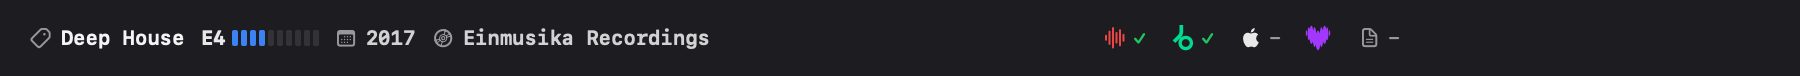
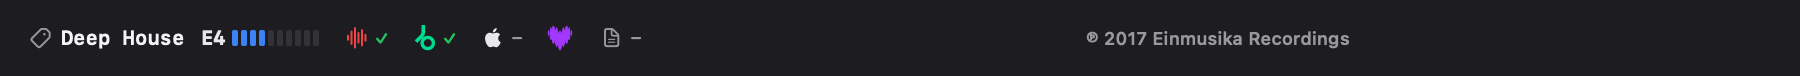
fix: no false "agent offline" on first open; ℗ year + label at the right
- The agent's analysis held the Python GIL, so polls timed out while a new
  track was analysed and the client reported "offline" (Retry then worked
  from cache). Client: a timeout or dropped connection now means "busy,
  keep waiting"; only a refused connection is "offline"; an "unknown" path
  (lost POST) is posted again. (The dj-stack agent now analyses in a
  separate process and answers /health in ~1 ms during analysis.)
- Footer: year and label move to the right end as a release credit,
  "℗ 2017 Einmusika Recordings", quieter than the genre.

Changed region(s): [[0.1867, 0.3684, 0.4044, 0.6579], [0.5911, 0.3421, 0.7778, 0.6579]]

diff --git a/Mocawave/TrackInfo.swift b/Mocawave/TrackInfo.swift
@@ -115,25 +115,31 @@ actor TrackInfoClient {
     init(base: URL = URL(string: "http://127.0.0.1:47321")!) {
         self.base = base
         let config = URLSessionConfiguration.ephemeral
-        config.timeoutIntervalForRequest = 5
+        config.timeoutIntervalForRequest = 10
         config.waitsForConnectivity = false
         session = URLSession(configuration: config)
     }
 
     /// Asks for `url`'s info, reporting progress, until ready / offline / failed (or the task is cancelled).
+    /// "Busy" (a timeout while the agent analyses) and "not registered yet" (the agent doesn't know the path,
+    /// e.g. the POST was lost) both mean: keep going. Only a refused connection is "offline".
+    private static let notRegistered = -1
+
     func fetch(_ url: URL, progress: @Sendable @escaping (TrackInfoState) async -> Void) async -> TrackInfoState {
-        var request = URLRequest(url: base.appendingPathComponent("track/info"))
-        request.httpMethod = "POST"
-        request.setValue("application/json", forHTTPHeaderField: "Content-Type")
-        request.httpBody = try? JSONSerialization.data(withJSONObject: ["path": url.path])
-        var state = await send(request)
-        let deadline = Date().addingTimeInterval(180)
-        while case .queued = state, !Task.isCancelled, Date() < deadline {
-            await progress(state)
+        var post = URLRequest(url: base.appendingPathComponent("track/info"))
+        post.httpMethod = "POST"
+        post.setValue("application/json", forHTTPHeaderField: "Content-Type")
+        post.httpBody = try? JSONSerialization.data(withJSONObject: ["path": url.path])
+        var components = URLComponents(url: base.appendingPathComponent("track/info"), resolvingAgainstBaseURL: false)!
+        components.queryItems = [URLQueryItem(name: "path", value: url.path)]
+        let poll = URLRequest(url: components.url!)
+
+        var state = await send(post)
+        let deadline = Date().addingTimeInterval(240)
+        while case .queued(let position) = state, !Task.isCancelled, Date() < deadline {
+            await progress(.queued(position: max(position, 0)))
             try? await Task.sleep(nanoseconds: 1_500_000_000)
-            var components = URLComponents(url: base.appendingPathComponent("track/info"), resolvingAgainstBaseURL: false)!
-            components.queryItems = [URLQueryItem(name: "path", value: url.path)]
-            state = await send(URLRequest(url: components.url!))
+            state = await send(position == Self.notRegistered ? post : poll)
         }
         if case .queued = state { return .failed("timed out") }
         return state
@@ -154,8 +160,10 @@ actor TrackInfoClient {
             return decode(data)
         } catch let error as URLError where error.code == .networkConnectionLost && !retried {
             return await send(request, retried: true)
-        } catch let error as URLError where [.cannotConnectToHost, .networkConnectionLost, .timedOut, .cannotFindHost].contains(error.code) {
-            return .offline
+        } catch let error as URLError where [.cannotConnectToHost, .cannotFindHost].contains(error.code) {
+            return .offline                      // nothing listening: the agent isn't running
+        } catch let error as URLError where [.timedOut, .networkConnectionLost].contains(error.code) {
+            return .queued(position: 0)          // agent up but busy: keep waiting
         } catch {
             return .failed(error.localizedDescription)
         }
@@ -168,6 +176,7 @@ actor TrackInfoClient {
         switch envelope.status {
         case "ready": return envelope.info.map { .ready($0) } ?? .failed("empty response")
         case "queued", "running": return .queued(position: envelope.position ?? 1)
+        case "unknown": return .queued(position: Self.notRegistered)   // not registered yet: post again
         default: return .failed(envelope.error ?? envelope.status)
         }
     }

diff --git a/Mocawave/TrackInfoView.swift b/Mocawave/TrackInfoView.swift
@@ -38,9 +38,6 @@ struct TrackInfoFooter: View {
         if let energy = info.labels.energy, case .number(let e) = energy.value {
             EnergyMeter(level: Int(e)).help("energy \(Int(e))/10 · \(energy.source)")
         }
-        if let year = info.labels.year { item("calendar", year.value.description, help: "year · \(year.source)") }
-        if let label = info.labels.label { item("opticaldisc", label.value.description, help: "label · \(label.source)") }
-        Spacer(minLength: MocaSpace.s)
         HStack(spacing: MocaSpace.xs) {
             ForEach(info.sources) { source in
                 SourceIconButton(source: source,
@@ -48,6 +45,24 @@ struct TrackInfoFooter: View {
                                  beatportURL: source.name == "Beatport" ? info.labels.beatportUrl.flatMap(URL.init(string:)) : nil)
             }
         }
+        Spacer(minLength: MocaSpace.s)
+        if let copy = copyLine(info) {
+            // Release credit, like the ℗ line on a record sleeve: year + label, quiet, right-aligned.
+            Text(copy)
+                .font(.system(size: 9, weight: .medium))
+                .foregroundColor(.secondary)
+                .lineLimit(1)
+                .truncationMode(.middle)
+                .help([info.labels.year.map { "year · \($0.source)" }, info.labels.label.map { "label · \($0.source)" }]
+                        .compactMap { $0 }.joined(separator: "\n"))
+                .accessibilityLabel("Released \(copy.dropFirst(2))")
+        }
+    }
+
+    /// "℗ 2017 Einmusika Recordings" (either part may be missing).
+    private func copyLine(_ info: TrackInfo) -> String? {
+        let parts = [info.labels.year?.value.description, info.labels.label?.value.description].compactMap { $0 }
+        return parts.isEmpty ? nil : "℗ " + parts.joined(separator: " ")
     }
 
     /// Most specific genre a store gives (e.g. "Organic House"), else our consensus style.

diff --git a/MocawaveTests/TrackInfoTests.swift b/MocawaveTests/TrackInfoTests.swift
@@ -28,6 +28,8 @@ final class TrackInfoTests: XCTestCase {
         XCTAssertEqual(client.decode(Data(#"{"status":"running","position":1}"#.utf8)), .queued(position: 1))
         XCTAssertEqual(client.decode(Data(#"{"status":"error","error":"boom"}"#.utf8)), .failed("boom"))
         XCTAssertEqual(client.decode(Data("not json".utf8)), .failed("unreadable response"))
+        // The agent doesn't know the path yet (POST lost): keep going and post again, never "failed"/"offline".
+        XCTAssertEqual(client.decode(Data(#"{"status":"unknown"}"#.utf8)), .queued(position: -1))
     }
 
     func testLabelValueFormatting() {
